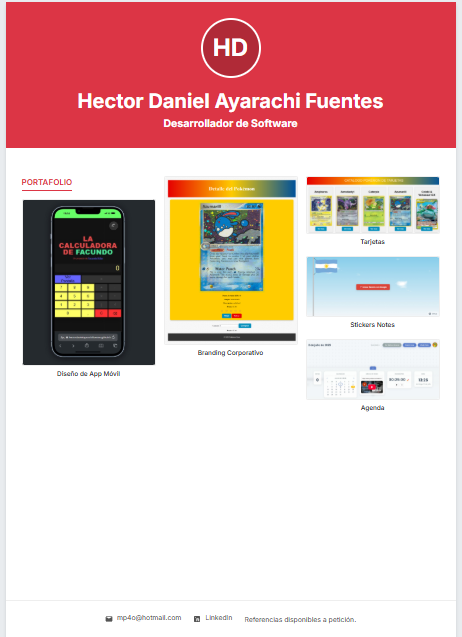
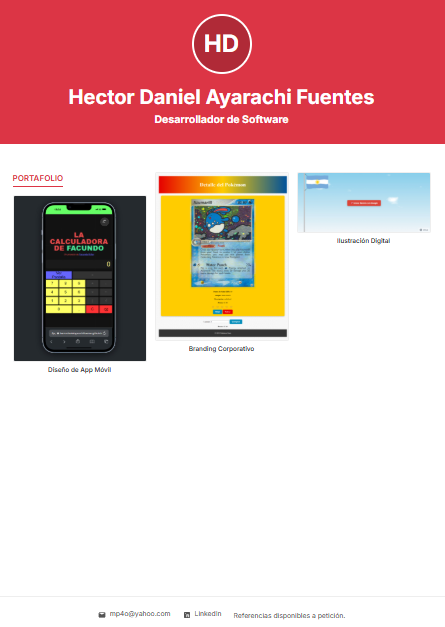
fhghfg

diff --git a/script.js b/script.js
@@ -29,8 +29,8 @@ document.addEventListener('DOMContentLoaded', () => {
         ],
         portfolio: [
             { id: Date.now() + 10, img: 'https://github.com/HectorDanielAyarachiFuentes/Tu-CV-Pro/blob/main/img/portafolio-img.jpeg?raw=true', title: 'Diseño de App Móvil' },
-            { id: Date.now() + 11, img: 'https://i.imgur.com/h564P2c.png', title: 'Branding Corporativo' },
-            { id: Date.now() + 12, img: 'https://i.imgur.com/kSj4EA3.png', title: 'Ilustración Digital' }
+            { id: Date.now() + 11, img: 'https://github.com/HectorDanielAyarachiFuentes/Tu-CV-Pro/blob/main/img/portafolio-4.png?raw=true', title: 'Branding Corporativo' },
+            { id: Date.now() + 12, img: 'https://github.com/HectorDanielAyarachiFuentes/Tu-CV-Pro/blob/main/img/portafolio-3.jpeg?raw=true', title: 'Ilustración Digital' }
         ]
     };
 
